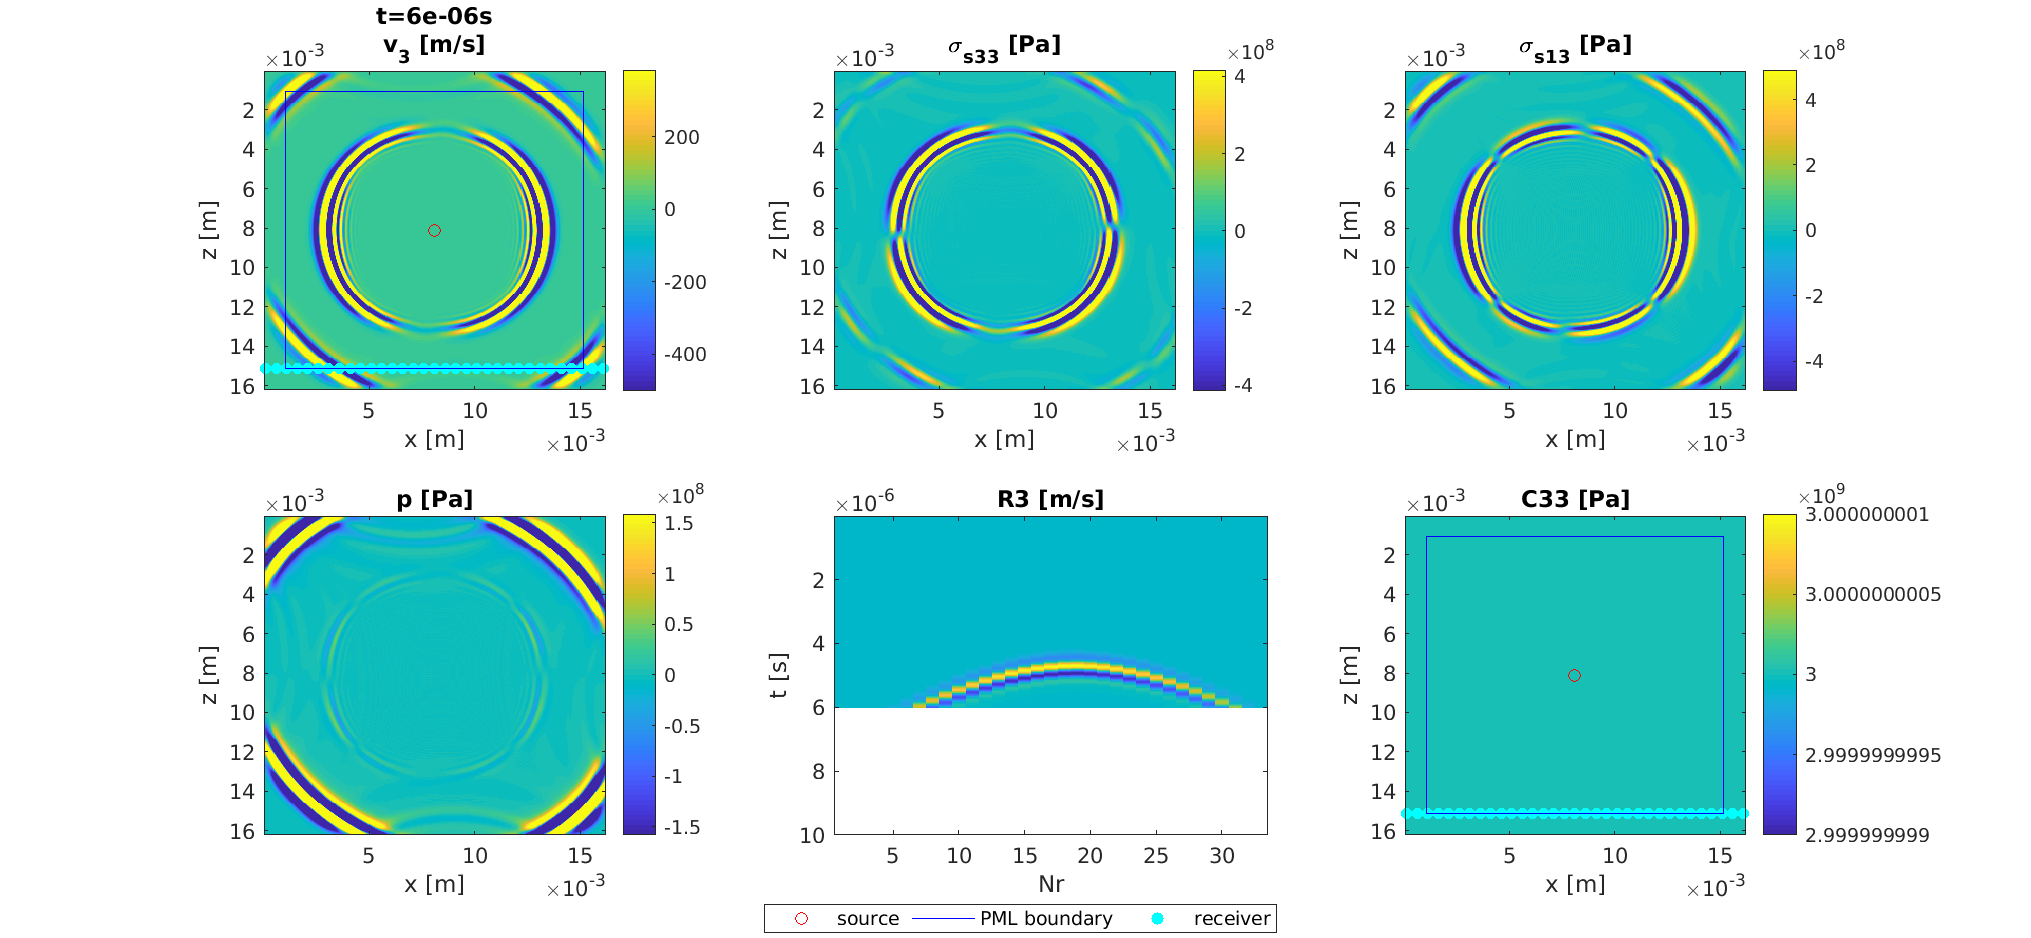
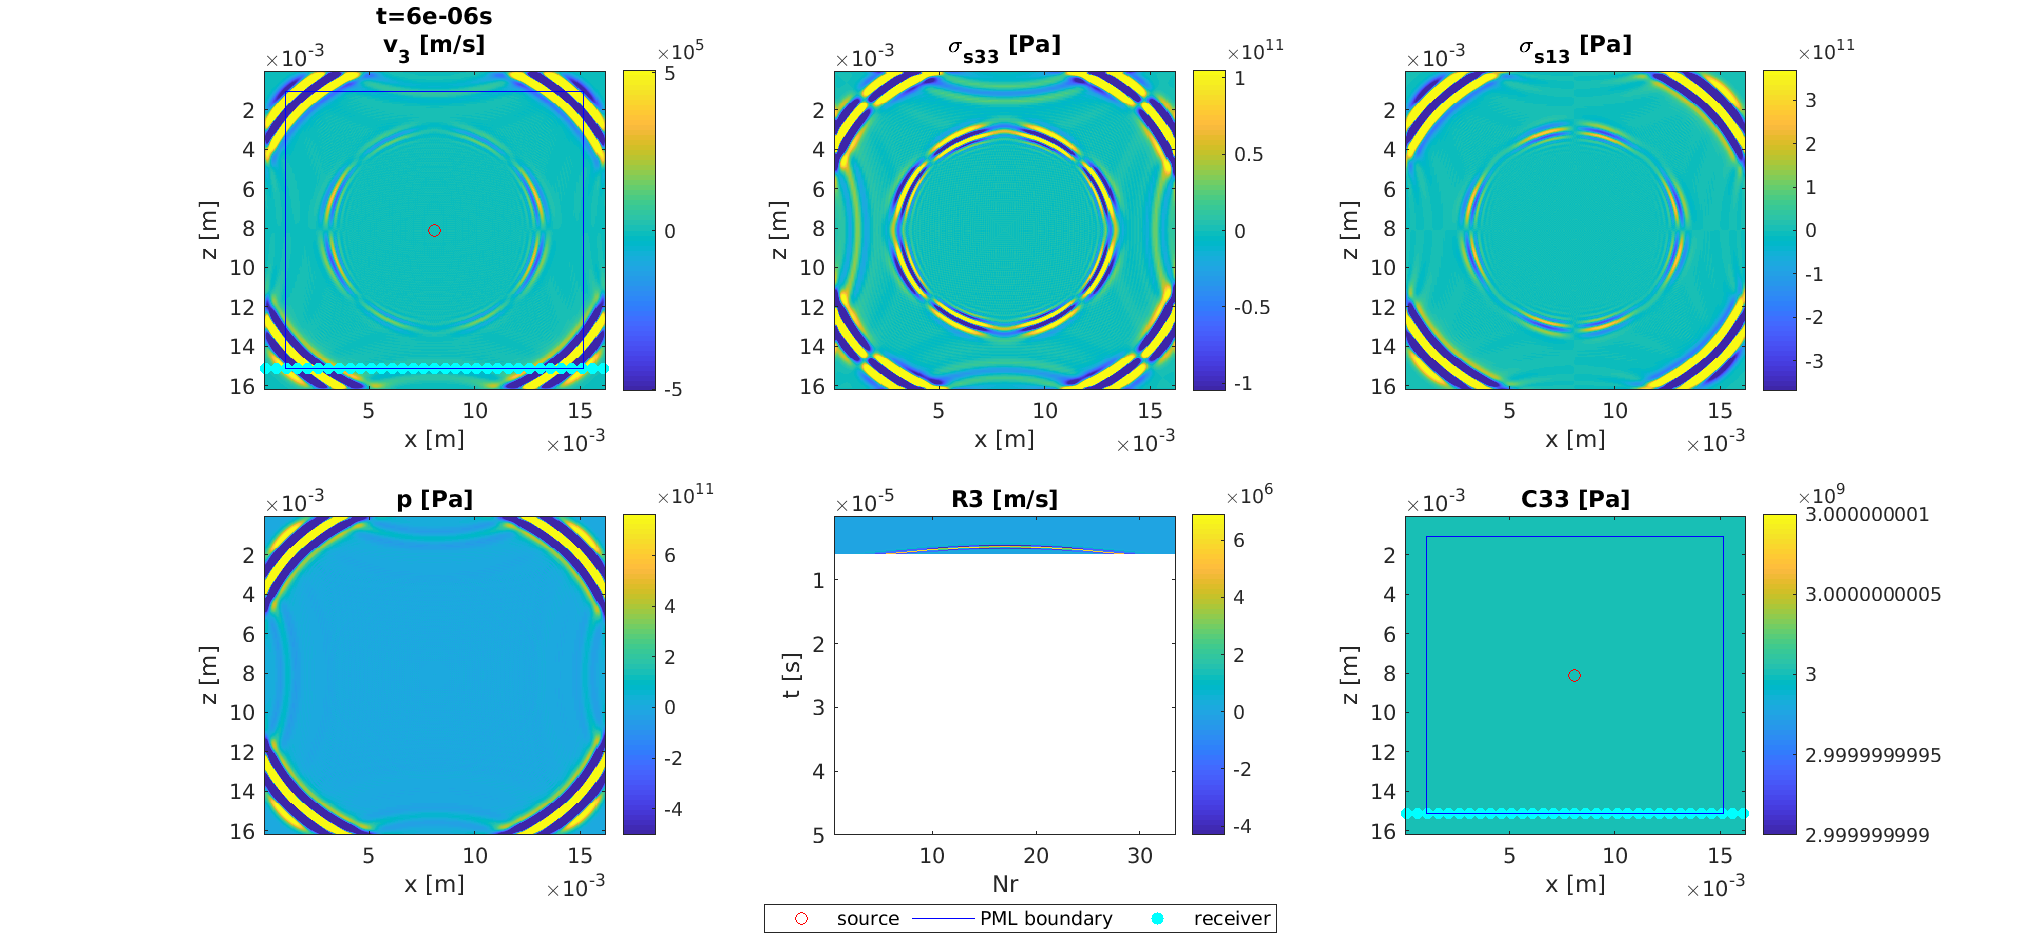
ani

diff --git a/ani_homogenous.m b/ani_homogenous.m
@@ -4,8 +4,6 @@ clear all;
 
 % load image
 A=ones(300,300);
-xc=150;
-zc=150;
 
 n=numel(A);
 
@@ -25,7 +23,7 @@ fluid=find(A==0);
 dt=10^-8;
 dx=5*10^-5;
 dz=5*10^-5;
-nt=1000;
+nt=5000;
 nx=size(A,1);
 nz=size(A,2);
 
@@ -66,10 +64,10 @@ lambda=10^9;
 
 % assign solid with its stiffness
 C11(solid)=lambda+2*mu;
-C13(solid)=lambda;
-C15(solid)=.2*lambda;
+C13(solid)=lambda+10^8;
+%C15(solid)=.2*lambda;
 C33(solid)=lambda+2*mu;
-C35(solid)=.2*lambda;
+%C35(solid)=.2*lambda;
 C55(solid)=mu;
 rho(solid)=10^3;
 
@@ -126,7 +124,7 @@ singles=rickerWave(freq,dt,nt,M);
 
 % give source signal to x direction
 src1=zeros(nt,1);
-src1=0*[singles];
+src1=1*[singles];
 
 % give source signal to z direction
 src3=src1;
@@ -137,7 +135,7 @@ r1=(2:10:(nx-1))*dx;
 r3=(ones(size(r1)))*(nz-lp-1)*dz;
 
 % source type. 'D' for directional source. 'P' for P-source.
-source_type='D';
+source_type='P';
 
 % point interval in time steps
 plot_interval=50;
